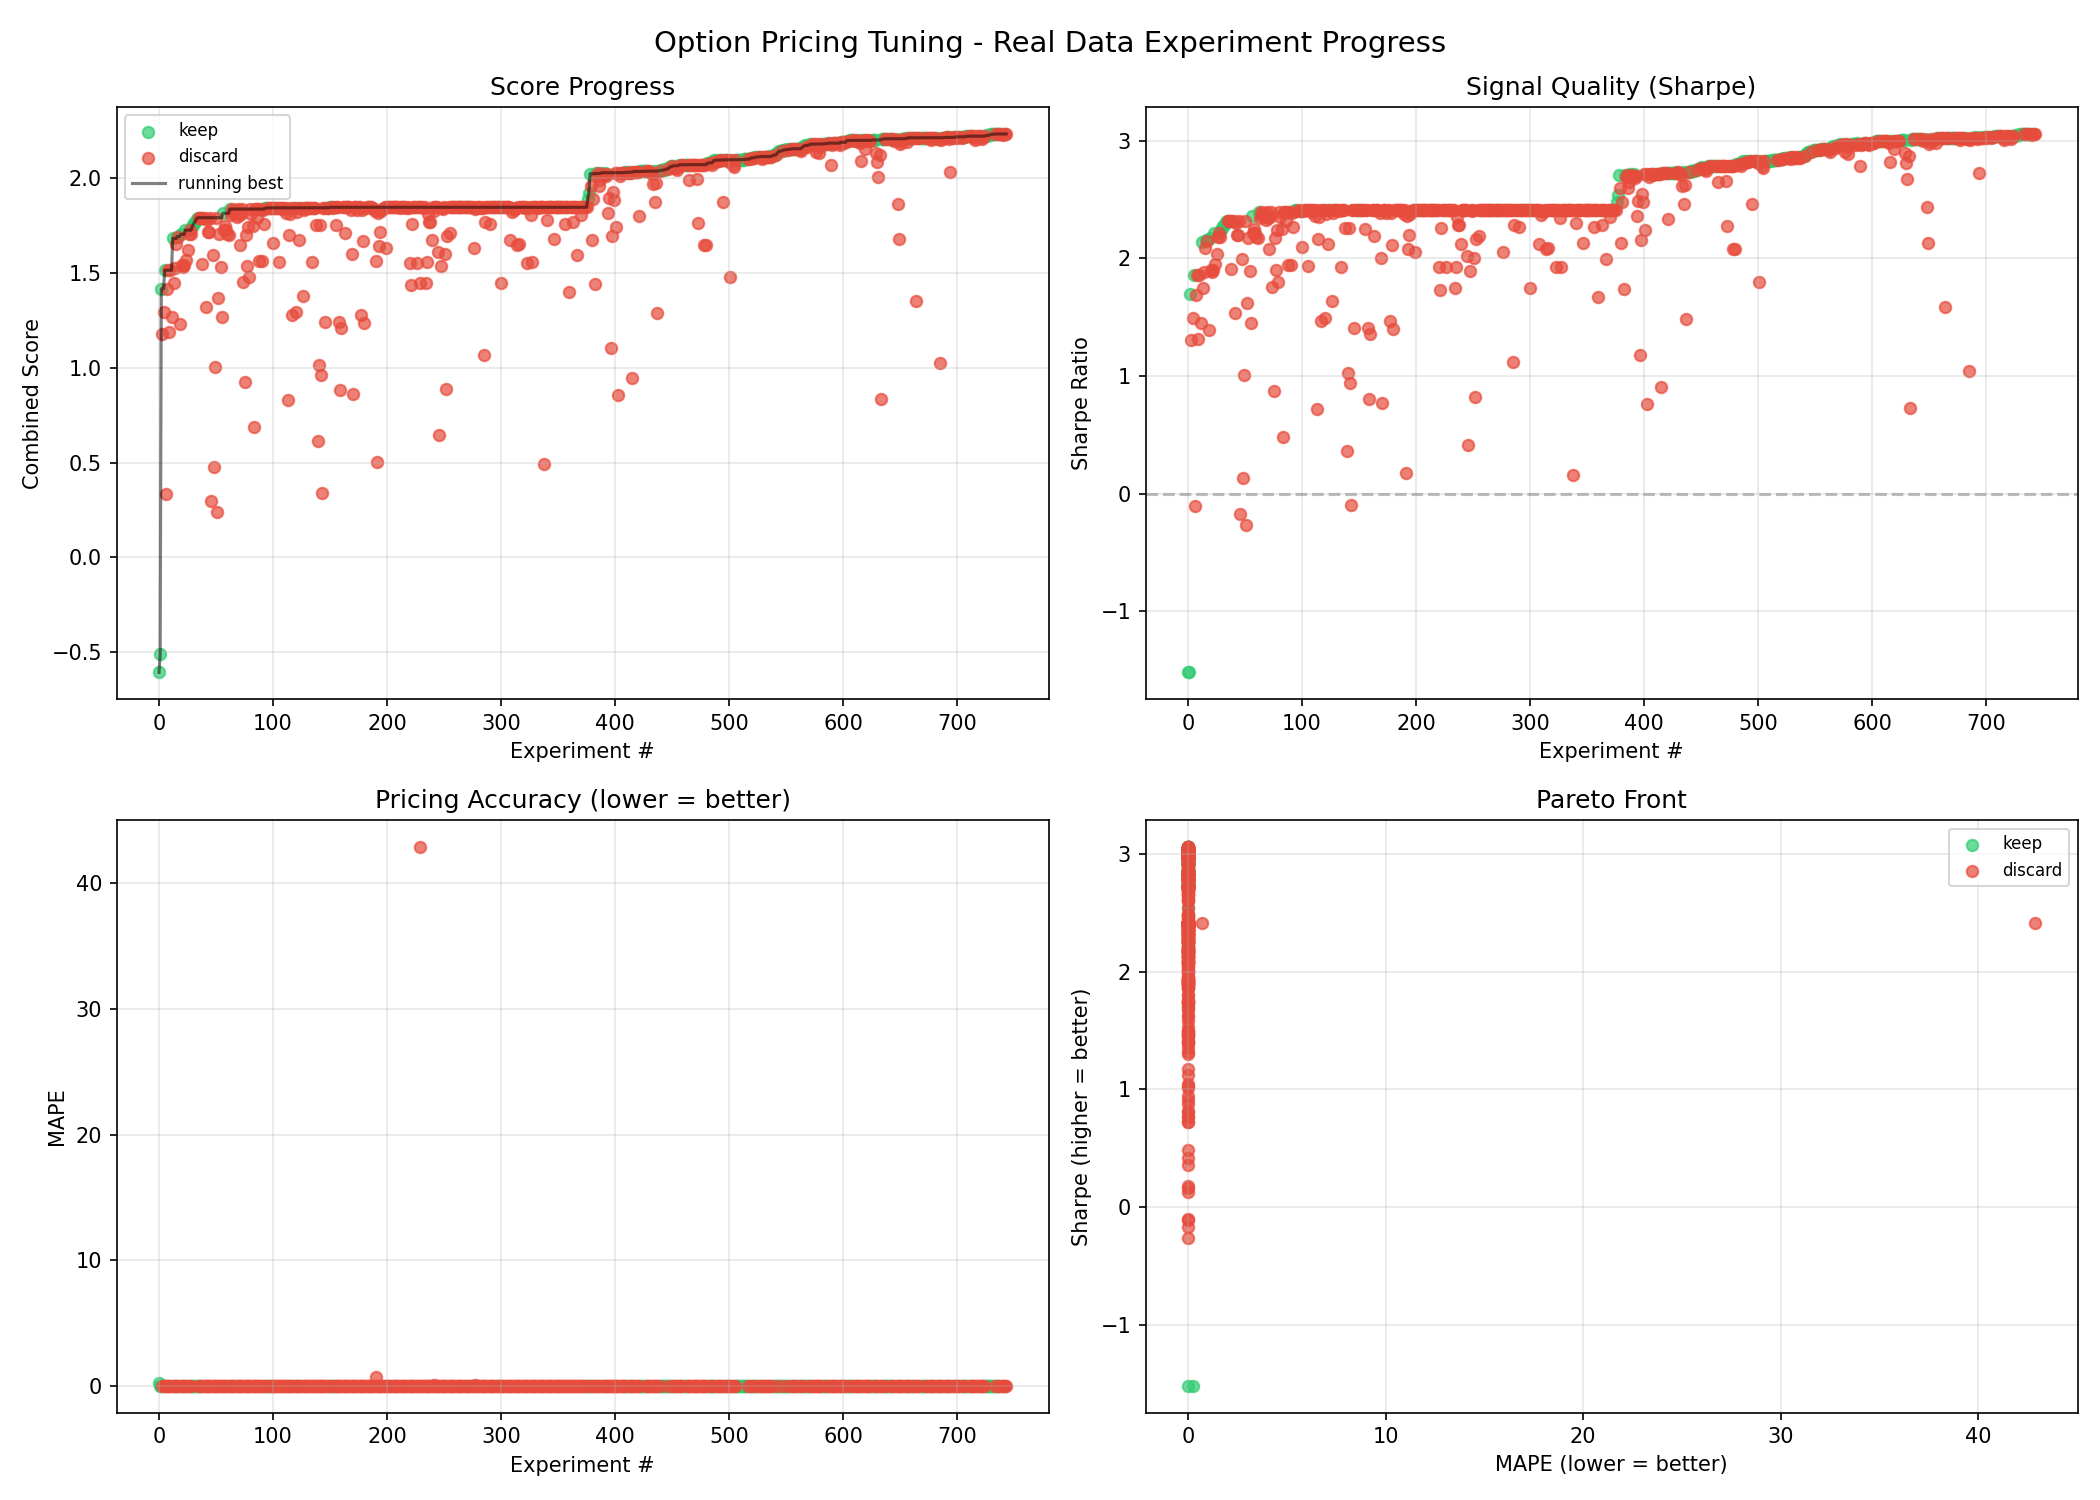
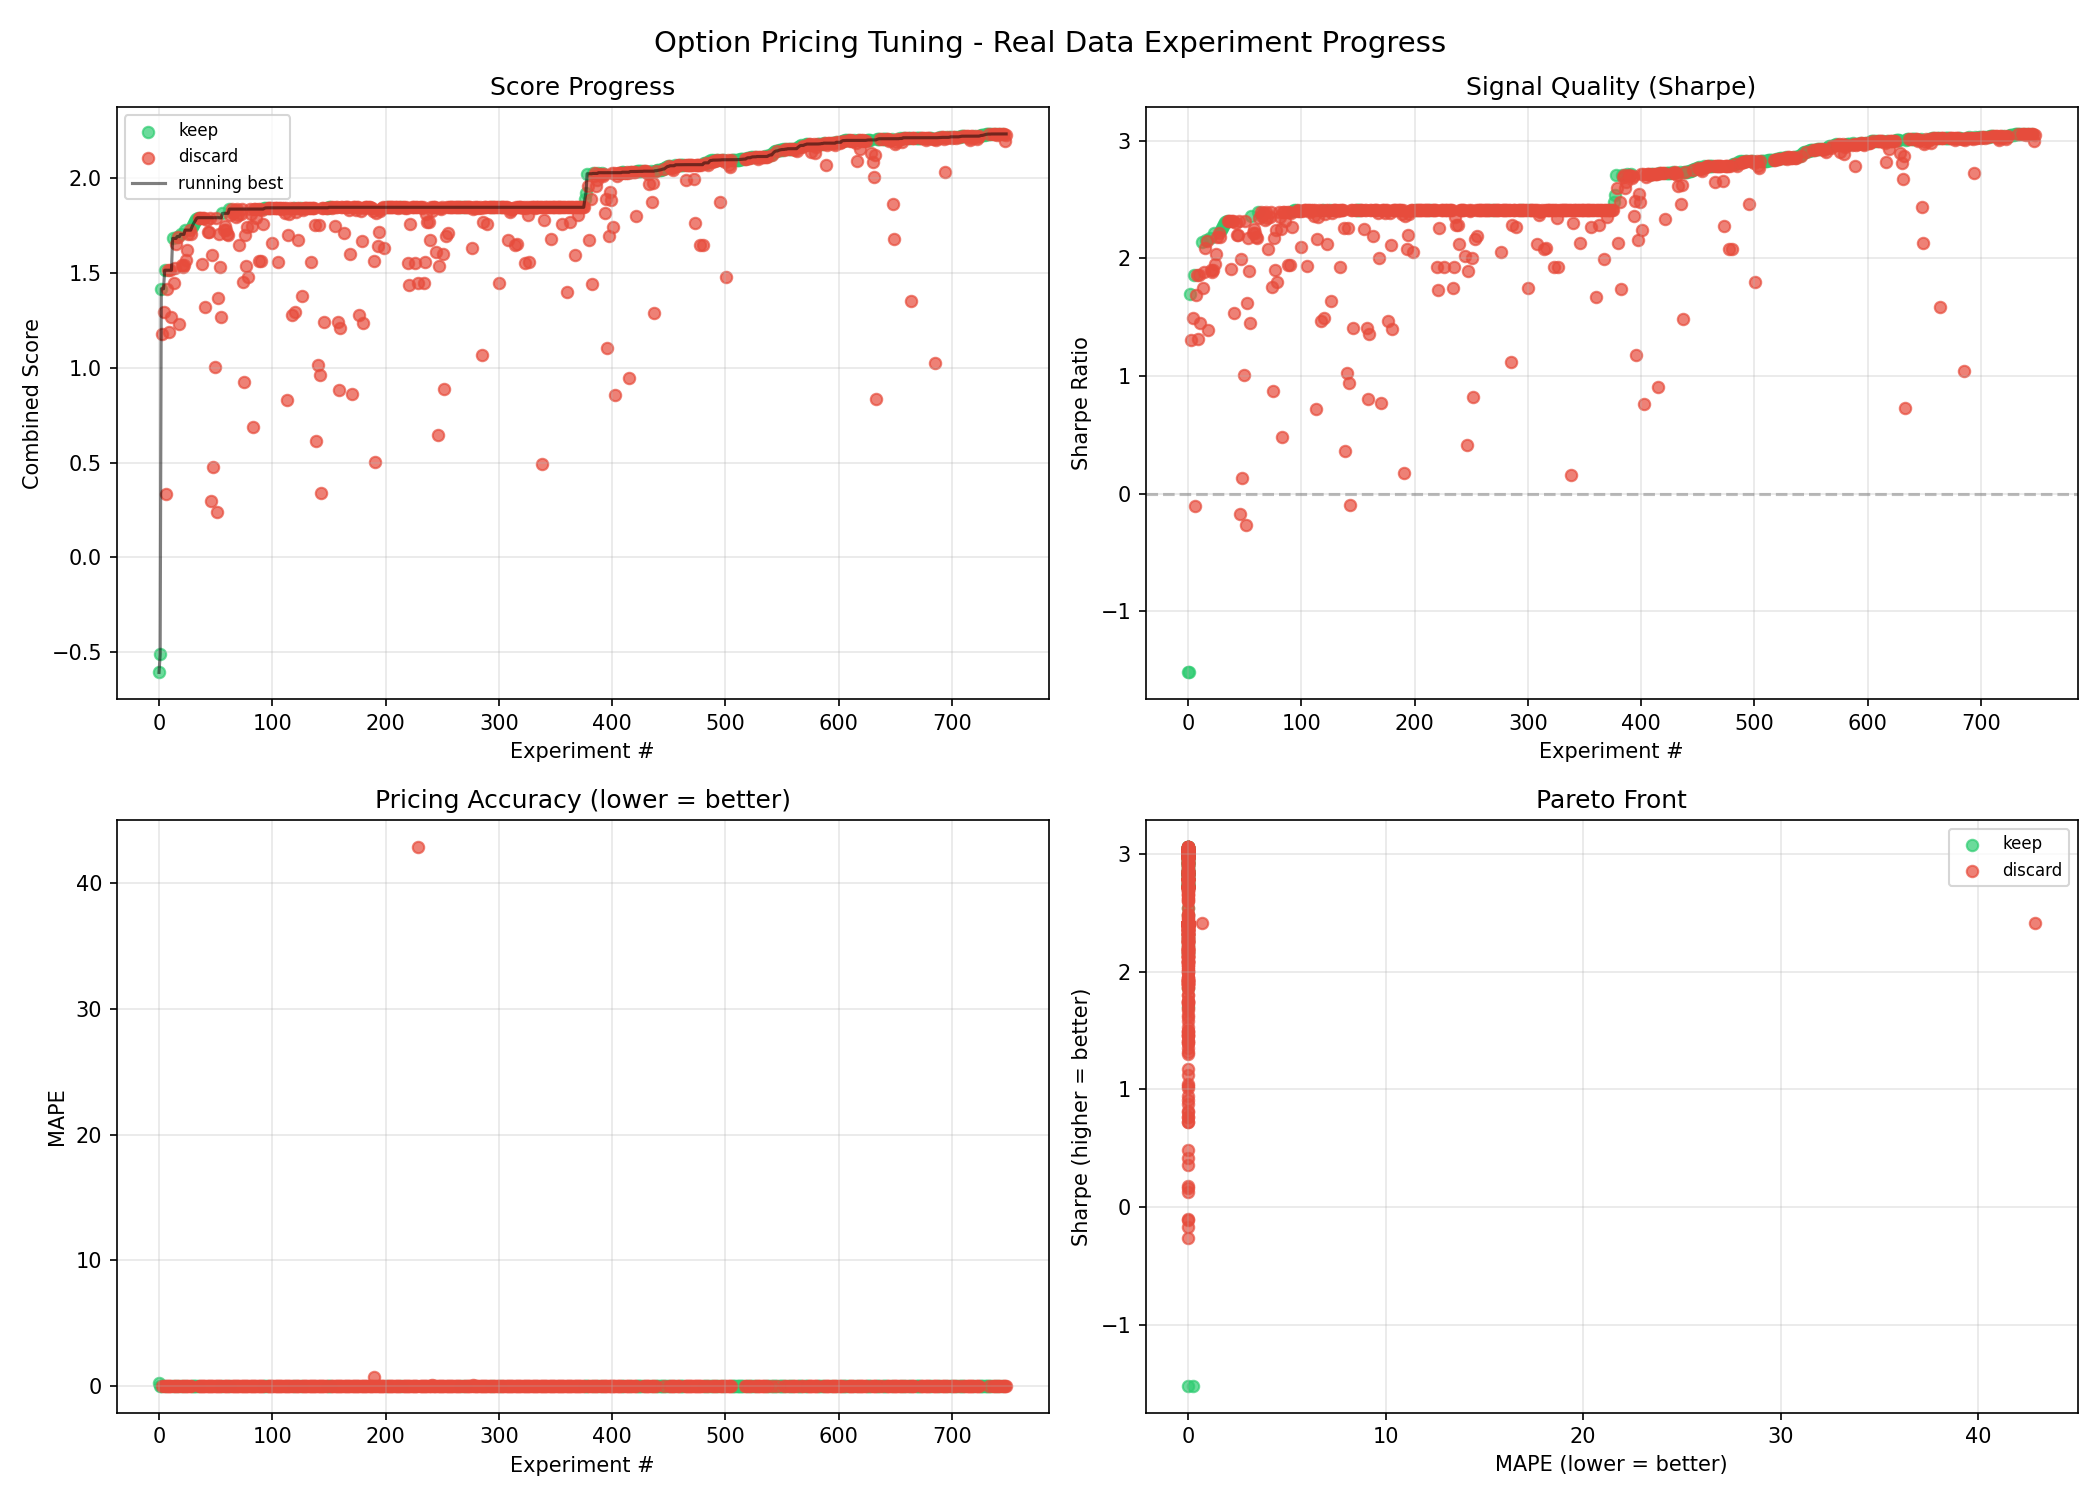
log exp749

diff --git a/README.md b/README.md
@@ -10,11 +10,11 @@ signals using **real stock market data** from Yahoo Finance.
 | Metric | Value |
 |---|---|
 | Combined Score | 2.2333 |
-| Sharpe Ratio | 3.0568 |
+| Sharpe Ratio | 3.0569 |
 | MAPE | 0.002003 |
 | Win Rate | 86.2% |
 | Trades | 29 |
-| Experiments | 744 (176 kept) |
+| Experiments | 749 (177 kept) |
 
 ## How It Works
 
